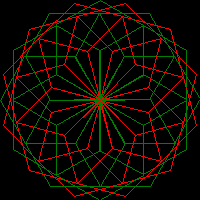
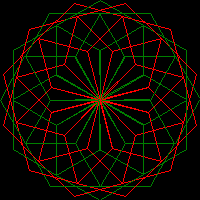
Fixed positioning for nested REPEAT loops

diff --git a/TurtleTest.php b/TurtleTest.php
@@ -258,6 +258,17 @@ repeat 50 [
 LOGO
                 , 'TO SPIRAL :SIZE :ANGLE FD :SIZE RT :ANGLE END MAKE "SIZE 5 MAKE "ANGLE 91 REPEAT 50 [ SPIRAL :SIZE :ANGLE MAKE "SIZE SUM :SIZE 2 ]'
             ),
+            array(
+                <<<LOGO
+repeat 4 [
+    repeat 3 [
+        fd 20
+        rt 30
+    ]
+]
+LOGO
+                , 'REPEAT 4 [ REPEAT 3 [ FD 20 RT 30 ] ]'
+            )
         );
     }
     

diff --git a/Turtle.php b/Turtle.php
@@ -211,6 +211,8 @@ class Turtle {
                                     $commands,
                                     &$passedInVariables
                                 );
+                                $newX = $this->_currentX;
+                                $newY = $this->_currentY;
                             }
                             continue;
                         }
